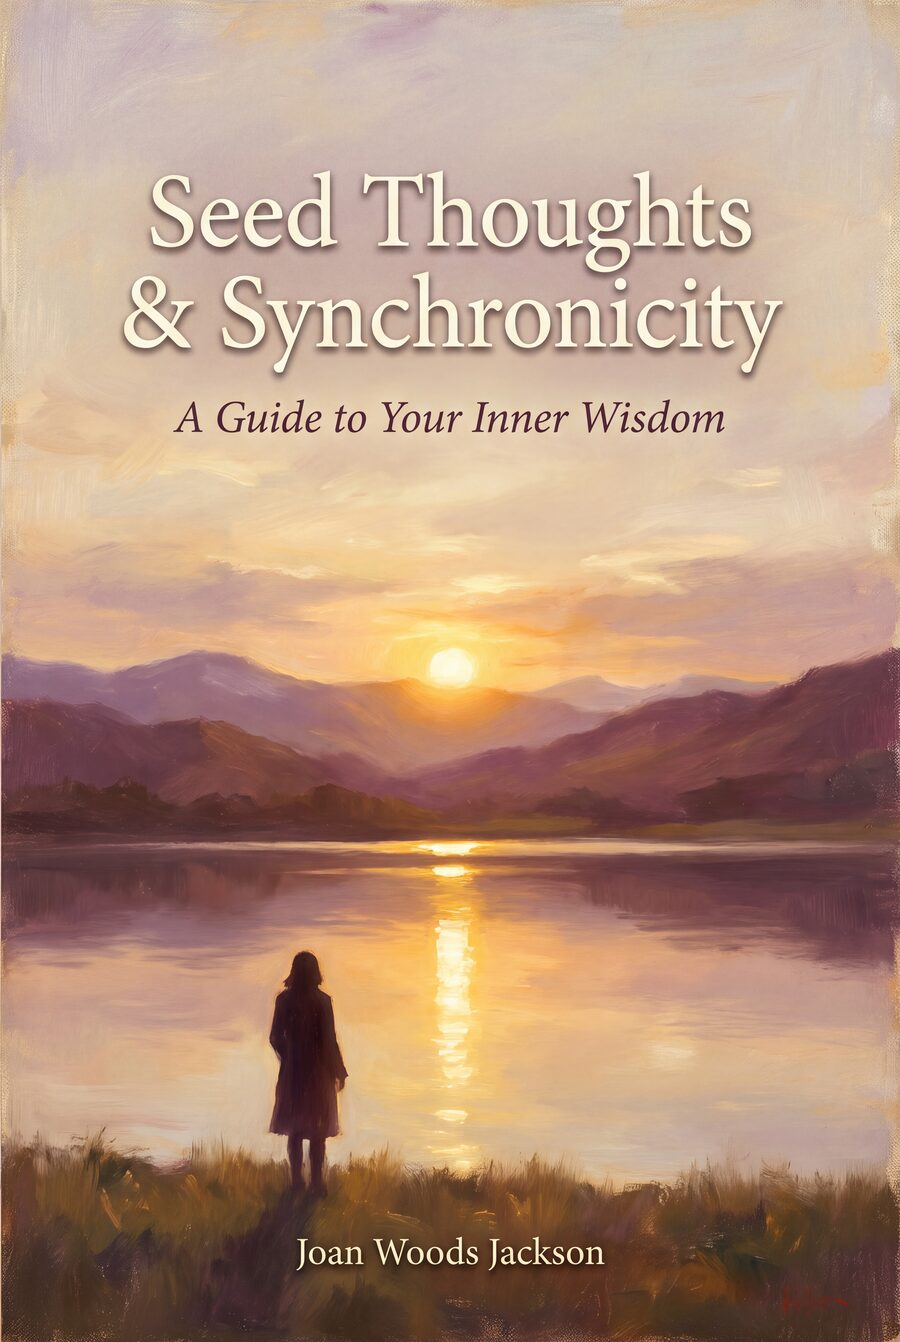
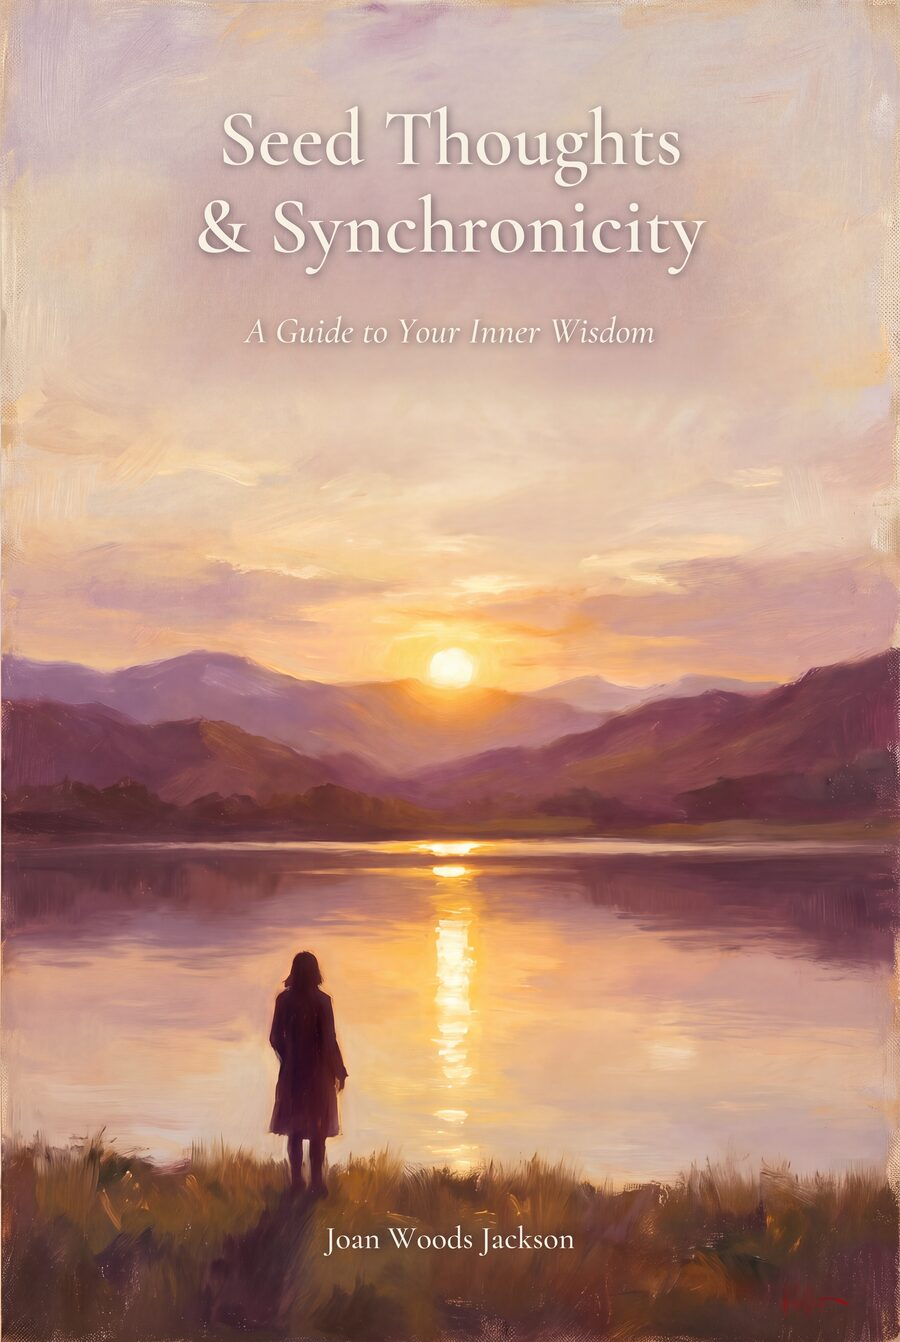
feat: covers rebuilt as text-free art + real typography; add art-only downloads
- Strip the lettering from each 4K render (image-to-image edit) so the raw
  artwork exists as its own file for a designer or printer
- Set title/subtitle/author in Cormorant Garamond with ImageMagick over the art
- Each option now offers Download cover and Download art only (3392x5056, 300 DPI)

Claude-Session: https://claude.ai/code/session_01GNAew22NpWYATQ5ZuurREb

diff --git a/cover-options/index.html b/cover-options/index.html
@@ -28,6 +28,8 @@
         .idea__label span { display: inline-block; min-width: 2.2em; padding: 0 var(--space-3); margin-right: var(--space-3); background: var(--color-gold); color: var(--color-white); border-radius: var(--border-radius); font-family: var(--font-body); font-size: var(--text-xl); font-weight: 600; letter-spacing: 0.05em; vertical-align: middle; line-height: 1.7; }
         .idea__note { font-size: var(--text-base); color: var(--color-text-light); max-width: 34ch; margin: var(--space-2) auto 0; }
         .idea__download { display: inline-block; margin-top: var(--space-4); font-family: var(--font-body); font-size: var(--text-sm); letter-spacing: 0.08em; text-transform: uppercase; color: var(--color-earth); background: var(--color-white); border: 1px solid var(--color-gold); border-radius: var(--border-radius); padding: var(--space-2) var(--space-5); text-decoration: none; transition: background-color var(--transition-speed), color var(--transition-speed); }
+        .idea__downloads { display: flex; flex-wrap: wrap; justify-content: center; gap: var(--space-2) var(--space-3); }
+        .idea__download--art { border-color: var(--color-mauve); }
         .idea__download:hover, .idea__download:focus { background: var(--color-gold); color: var(--color-white); }
         .ideas__print-note { max-width: var(--max-width-text); margin: var(--space-12) auto 0; padding: var(--space-6) var(--space-8); background: var(--color-white); border-left: 3px solid var(--color-gold); font-size: var(--text-base); color: var(--color-text-light); }
         .ideas__print-note p { margin: 0 0 var(--space-3); } .ideas__print-note p:last-child { margin: 0; }
@@ -66,41 +68,41 @@
                 </figure>
                 <figure class="idea">
                     <a href="../images/covers/option-1-large.jpg"><img src="../images/covers/option-1.jpg" alt="Option 1: a woman walking a sunlit golden road toward a rising sun between violet hills" width="900" height="1342" loading="eager"></a>
-                    <figcaption><span class="idea__label"><span>1</span>The Golden Path</span><p class="idea__note">Your original idea, painted fresh: a walker on a sunlit road toward the rising sun.</p><a class="idea__download" href="../images/covers/Seed-Thoughts-Cover-Option-1-PRINT.jpg" download="Seed-Thoughts-Cover-Option-1-PRINT.jpg">Download print-quality file</a></figcaption>
+                    <figcaption><span class="idea__label"><span>1</span>The Golden Path</span><p class="idea__note">Your original idea, painted fresh: a walker on a sunlit road toward the rising sun.</p><span class="idea__downloads"><a class="idea__download" href="../images/covers/Seed-Thoughts-Cover-Option-1-PRINT.jpg" download="Seed-Thoughts-Cover-Option-1-PRINT.jpg">Download cover</a><a class="idea__download idea__download--art" href="../images/covers/Seed-Thoughts-Cover-Option-1-ART-ONLY.jpg" download="Seed-Thoughts-Cover-Option-1-ART-ONLY.jpg">Download art only</a></span></figcaption>
                 </figure>
                 <figure class="idea">
                     <a href="../images/covers/option-2-large.jpg"><img src="../images/covers/option-2.jpg" alt="Option 2: a figure at the edge of a still lake at dusk with the sun reflected in the water" width="900" height="1342" loading="lazy"></a>
-                    <figcaption><span class="idea__label"><span>2</span>Still Water</span><p class="idea__note">A figure at the water&rsquo;s edge at dusk, the sun laying a golden line across the lake.</p><a class="idea__download" href="../images/covers/Seed-Thoughts-Cover-Option-2-PRINT.jpg" download="Seed-Thoughts-Cover-Option-2-PRINT.jpg">Download print-quality file</a></figcaption>
+                    <figcaption><span class="idea__label"><span>2</span>Still Water</span><p class="idea__note">A figure at the water&rsquo;s edge at dusk, the sun laying a golden line across the lake.</p><span class="idea__downloads"><a class="idea__download" href="../images/covers/Seed-Thoughts-Cover-Option-2-PRINT.jpg" download="Seed-Thoughts-Cover-Option-2-PRINT.jpg">Download cover</a><a class="idea__download idea__download--art" href="../images/covers/Seed-Thoughts-Cover-Option-2-ART-ONLY.jpg" download="Seed-Thoughts-Cover-Option-2-ART-ONLY.jpg">Download art only</a></span></figcaption>
                 </figure>
                 <figure class="idea">
                     <a href="../images/covers/option-3-large.jpg"><img src="../images/covers/option-3.jpg" alt="Option 3: a watercolor seedling sprouting from a glowing golden seed on cream paper" width="900" height="1342" loading="lazy"></a>
-                    <figcaption><span class="idea__label"><span>3</span>Seed of Light</span><p class="idea__note">A single seedling from a glowing seed. Quiet, simple, lots of open space.</p><a class="idea__download" href="../images/covers/Seed-Thoughts-Cover-Option-3-PRINT.jpg" download="Seed-Thoughts-Cover-Option-3-PRINT.jpg">Download print-quality file</a></figcaption>
+                    <figcaption><span class="idea__label"><span>3</span>Seed of Light</span><p class="idea__note">A single seedling from a glowing seed. Quiet, simple, lots of open space.</p><span class="idea__downloads"><a class="idea__download" href="../images/covers/Seed-Thoughts-Cover-Option-3-PRINT.jpg" download="Seed-Thoughts-Cover-Option-3-PRINT.jpg">Download cover</a><a class="idea__download idea__download--art" href="../images/covers/Seed-Thoughts-Cover-Option-3-ART-ONLY.jpg" download="Seed-Thoughts-Cover-Option-3-ART-ONLY.jpg">Download art only</a></span></figcaption>
                 </figure>
                 <figure class="idea">
                     <a href="../images/covers/option-4-large.jpg"><img src="../images/covers/option-4.jpg" alt="Option 4: a dandelion releasing seeds into a gold and lavender sky" width="900" height="1342" loading="lazy"></a>
-                    <figcaption><span class="idea__label"><span>4</span>Dandelion</span><p class="idea__note">Seeds lifting into a gold-and-lavender sky.</p><a class="idea__download" href="../images/covers/Seed-Thoughts-Cover-Option-4-PRINT.jpg" download="Seed-Thoughts-Cover-Option-4-PRINT.jpg">Download print-quality file</a></figcaption>
+                    <figcaption><span class="idea__label"><span>4</span>Dandelion</span><p class="idea__note">Seeds lifting into a gold-and-lavender sky.</p><span class="idea__downloads"><a class="idea__download" href="../images/covers/Seed-Thoughts-Cover-Option-4-PRINT.jpg" download="Seed-Thoughts-Cover-Option-4-PRINT.jpg">Download cover</a><a class="idea__download idea__download--art" href="../images/covers/Seed-Thoughts-Cover-Option-4-ART-ONLY.jpg" download="Seed-Thoughts-Cover-Option-4-ART-ONLY.jpg">Download art only</a></span></figcaption>
                 </figure>
                 <figure class="idea">
                     <a href="../images/covers/option-5-large.jpg"><img src="../images/covers/option-5.jpg" alt="Option 5: a great old tree in a golden meadow at sunset" width="900" height="1342" loading="lazy"></a>
-                    <figcaption><span class="idea__label"><span>5</span>The Old Tree</span><p class="idea__note">A great tree in a golden meadow, a nod to your sycamore.</p><a class="idea__download" href="../images/covers/Seed-Thoughts-Cover-Option-5-PRINT.jpg" download="Seed-Thoughts-Cover-Option-5-PRINT.jpg">Download print-quality file</a></figcaption>
+                    <figcaption><span class="idea__label"><span>5</span>The Old Tree</span><p class="idea__note">A great tree in a golden meadow, a nod to your sycamore.</p><span class="idea__downloads"><a class="idea__download" href="../images/covers/Seed-Thoughts-Cover-Option-5-PRINT.jpg" download="Seed-Thoughts-Cover-Option-5-PRINT.jpg">Download cover</a><a class="idea__download idea__download--art" href="../images/covers/Seed-Thoughts-Cover-Option-5-ART-ONLY.jpg" download="Seed-Thoughts-Cover-Option-5-ART-ONLY.jpg">Download art only</a></span></figcaption>
                 </figure>
                 <figure class="idea">
                     <a href="../images/covers/option-6-large.jpg"><img src="../images/covers/option-6.jpg" alt="Option 6: a golden seed on dark plum water sending out ripples" width="900" height="1342" loading="lazy"></a>
-                    <figcaption><span class="idea__label"><span>6</span>Ripples</span><p class="idea__note">A golden seed touching still, deep-plum water. The one dark option.</p><a class="idea__download" href="../images/covers/Seed-Thoughts-Cover-Option-6-PRINT.jpg" download="Seed-Thoughts-Cover-Option-6-PRINT.jpg">Download print-quality file</a></figcaption>
+                    <figcaption><span class="idea__label"><span>6</span>Ripples</span><p class="idea__note">A golden seed touching still, deep-plum water. The one dark option.</p><span class="idea__downloads"><a class="idea__download" href="../images/covers/Seed-Thoughts-Cover-Option-6-PRINT.jpg" download="Seed-Thoughts-Cover-Option-6-PRINT.jpg">Download cover</a><a class="idea__download idea__download--art" href="../images/covers/Seed-Thoughts-Cover-Option-6-ART-ONLY.jpg" download="Seed-Thoughts-Cover-Option-6-ART-ONLY.jpg">Download art only</a></span></figcaption>
                 </figure>
                 <figure class="idea">
                     <a href="../images/covers/option-7-large.jpg"><img src="../images/covers/option-7.jpg" alt="Option 7: a golden spiral of tiny seeds and leaves on cream linen" width="900" height="1342" loading="lazy"></a>
-                    <figcaption><span class="idea__label"><span>7</span>Spiral of Seeds</span><p class="idea__note">A gold spiral of seeds and leaves on cream linen. Classic and bookish.</p><a class="idea__download" href="../images/covers/Seed-Thoughts-Cover-Option-7-PRINT.jpg" download="Seed-Thoughts-Cover-Option-7-PRINT.jpg">Download print-quality file</a></figcaption>
+                    <figcaption><span class="idea__label"><span>7</span>Spiral of Seeds</span><p class="idea__note">A gold spiral of seeds and leaves on cream linen. Classic and bookish.</p><span class="idea__downloads"><a class="idea__download" href="../images/covers/Seed-Thoughts-Cover-Option-7-PRINT.jpg" download="Seed-Thoughts-Cover-Option-7-PRINT.jpg">Download cover</a><a class="idea__download idea__download--art" href="../images/covers/Seed-Thoughts-Cover-Option-7-ART-ONLY.jpg" download="Seed-Thoughts-Cover-Option-7-ART-ONLY.jpg">Download art only</a></span></figcaption>
                 </figure>
                 <figure class="idea">
                     <a href="../images/covers/option-8-large.jpg"><img src="../images/covers/option-8.jpg" alt="Option 8: a sprout in a terracotta pot on a farmhouse windowsill at dawn" width="900" height="1342" loading="lazy"></a>
-                    <figcaption><span class="idea__label"><span>8</span>Farmhouse Window</span><p class="idea__note">A sprout on an old windowsill in morning light.</p><a class="idea__download" href="../images/covers/Seed-Thoughts-Cover-Option-8-PRINT.jpg" download="Seed-Thoughts-Cover-Option-8-PRINT.jpg">Download print-quality file</a></figcaption>
+                    <figcaption><span class="idea__label"><span>8</span>Farmhouse Window</span><p class="idea__note">A sprout on an old windowsill in morning light.</p><span class="idea__downloads"><a class="idea__download" href="../images/covers/Seed-Thoughts-Cover-Option-8-PRINT.jpg" download="Seed-Thoughts-Cover-Option-8-PRINT.jpg">Download cover</a><a class="idea__download idea__download--art" href="../images/covers/Seed-Thoughts-Cover-Option-8-ART-ONLY.jpg" download="Seed-Thoughts-Cover-Option-8-ART-ONLY.jpg">Download art only</a></span></figcaption>
                 </figure>
             </div>
 
             <div class="ideas__print-note">
-                <p><strong>About the files.</strong> Each &ldquo;Download print-quality file&rdquo; button saves a large JPEG (3,392 &times; 5,056 pixels at 300 dots per inch, about 8&ndash;10 MB). That is big enough to print as the front cover of a 6 &times; 9 inch book with room to spare, and it is the size Amazon and other printers ask for.</p>
-                <p>When you have chosen a favorite, Ben will prepare the final files a printer needs (the front, spine, and back together, sized to the page count) and can adjust the lettering or any detail before then. The web versions on this page are smaller copies for quick viewing.</p>
+                <p><strong>About the files.</strong> Each cover comes as two downloads. <strong>Download cover</strong> is the finished front cover with the lettering. <strong>Download art only</strong> is the same picture with no words on it, which is what a book designer or printer will want so they can set the title and back cover themselves. Both are large JPEGs (3,392 &times; 5,056 pixels at 300 dots per inch, about 7&ndash;9 MB), big enough for the front of a 6 &times; 9 inch book with room to spare and the size Amazon and other printers ask for.</p>
+                <p>The lettering on every cover is set in the typeface Cormorant Garamond (semibold for the title, medium italic for the subtitle), the same one used on this website, so it can be matched or changed later. When you have chosen a favorite, Ben will prepare the final files a printer needs (front, spine, and back together, sized to the page count). The pictures on this page are smaller copies for quick viewing.</p>
             </div>
             <p class="ideas__foot">Don&rsquo;t see quite the right thing? Tell Ben what you picture &mdash; a scene, a feeling, a color &mdash; and he can have new ideas made in a day or two.<br><a href="../">Back to the website</a></p>
         </div>
